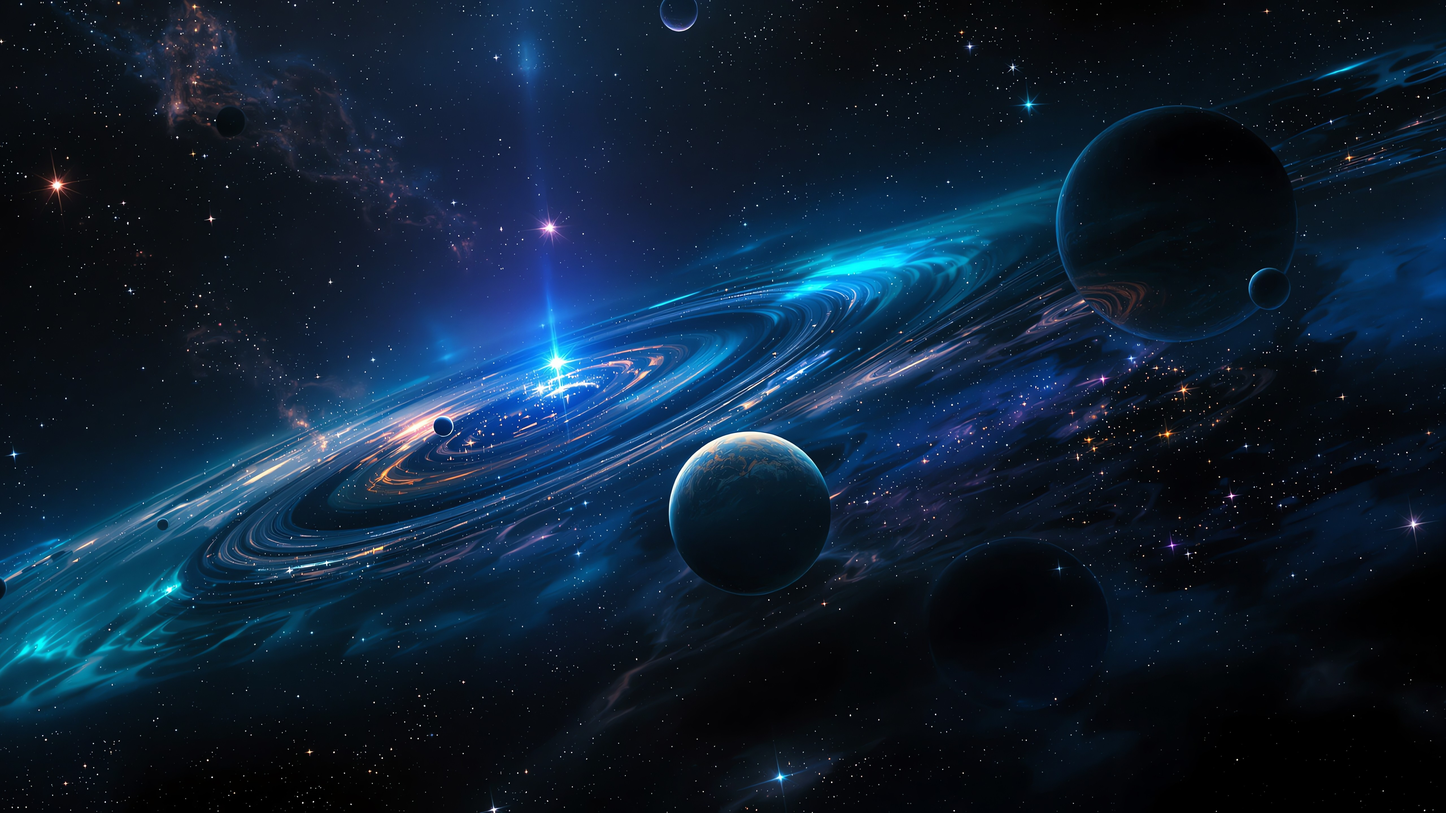
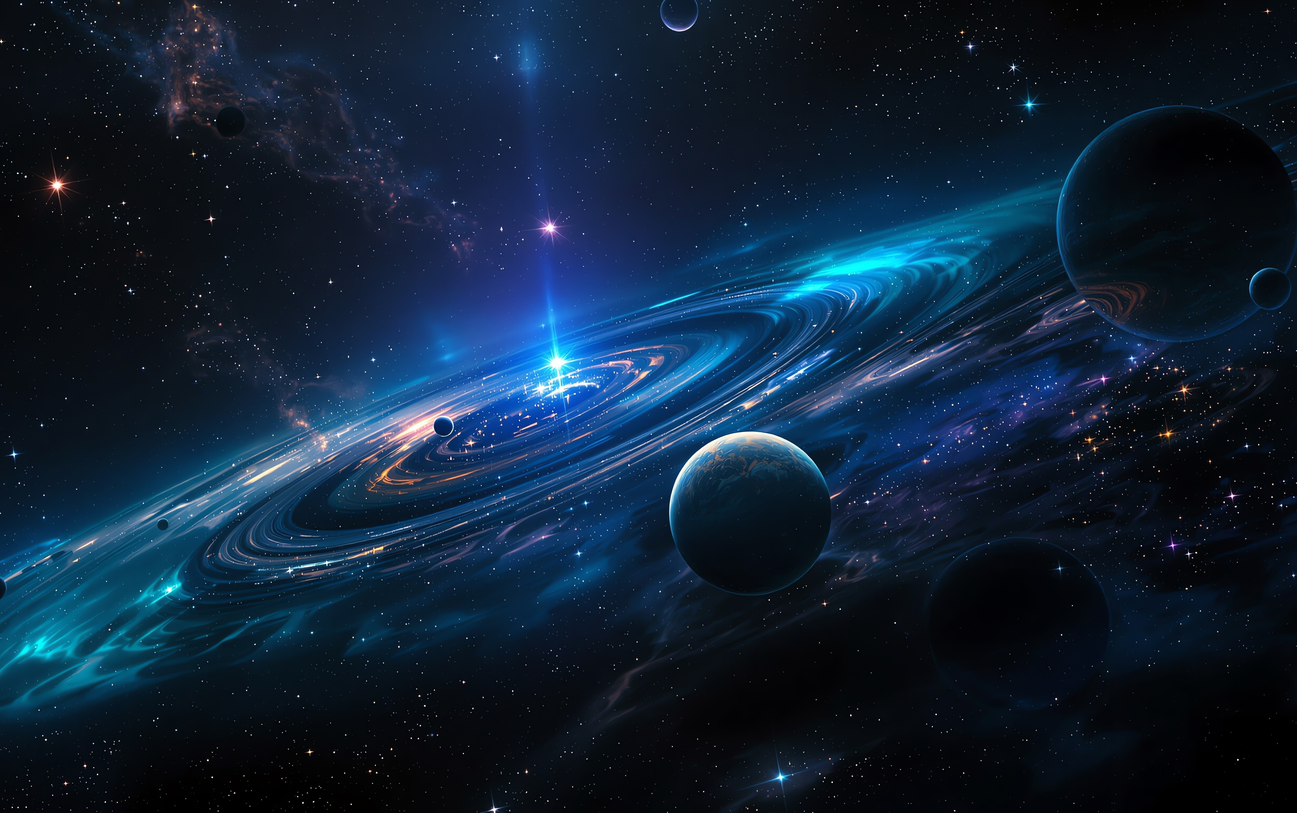
Revamp app menu, wallpaper, and window management
Improves the app menu layout and styling for better usability, updates the wallpaper rendering logic to use more appropriate object-fit modes, and refactors window management to use AnyView for content. Adds a simple constructor for FileExplorer for testing, updates the battery tray icon, and adjusts app window creation for file manager and settings. Also updates default wallpaper assets.

diff --git a/crates/prisma_ui/src/components/app_menu.rs b/crates/prisma_ui/src/components/app_menu.rs
@@ -327,13 +327,13 @@ impl AppMenu {
         ];
 
         v_flex()
-            .w(px(180.0))
+            .w(px(200.0))
             .h_full()
             .bg(cx.theme().sidebar.opacity(0.8))
             .border_r_1()
             .border_color(cx.theme().border.opacity(0.5))
-            .p_3()
-            .gap_2()
+            .p_4()
+            .gap_3()
             .scrollable(gpui::Axis::Vertical)
             .children(categories.iter().cloned().enumerate().map(|(idx, category)| {
                 let is_active = category == self.active_category;
@@ -398,75 +398,80 @@ impl AppMenu {
             .h_full()
             .flex()
             .flex_col()
-            .p_4()
-            .gap_4()
+            .p_6()
+            .gap_6()
             .child(
                 // Search bar
                 TextInput::new(&self.search_input)
                     .w_full()
-                    .h(px(40.0))
+                    .h(px(42.0))
+                    .px_4()
+                    .rounded_lg()
             )
             .child(
-                // App grid - ensure proper horizontal layout with wrapping
+                // App grid container with proper spacing
                 div()
                     .flex_1()
                     .w_full()
                     .overflow_hidden()
                     .scrollable(gpui::Axis::Vertical)
                     .child(
+                        // Grid layout using CSS Grid approach
                         div()
                             .w_full()
-                            .min_h_full()
                             .flex()
                             .flex_row()
                             .flex_wrap()
-                            .gap_4()
-                            .p_4()
-                            .items_start()
+                            .gap_6()
                             .justify_start()
-                            .content_start()
+                            .items_start()
                             .children(self.filtered_apps.iter().enumerate().map(|(idx, app)| {
-                                Button::new(("app", idx))
-                                    .ghost()
-                                    .p_2()
-                                    .rounded(cx.theme().radius)
-                                    .w(px(90.0)) // Fixed width
-                                    .h(px(90.0)) // Fixed height
-                                    .flex_shrink_0() // Prevent shrinking
-//                                    .flex_grow_0() // Prevent growing
-                                    .on_click({
-                                        let app_id = app.id.clone();
-                                        cx.listener(move |this, _, window, cx| {
-                                            this.launch_app(&app_id, window, cx);
-                                        })
-                                    })
+                                div()
+                                    .w(px(100.0))
+                                    .h(px(120.0))
+                                    .flex()
+                                    .flex_col()
+                                    .items_center()
+                                    .gap_2()
                                     .child(
-                                        v_flex()
-                                            .size_full()
+                                        Button::new(("app", idx))
+                                            .ghost()
+                                            .p_3()
+                                            .rounded_xl()
+                                            .w(px(80.0))
+                                            .h(px(80.0))
+                                            .flex()
                                             .items_center()
                                             .justify_center()
-                                            .gap_1() // Smaller gap for 90px button
+                                            .on_click({
+                                                let app_id = app.id.clone();
+                                                cx.listener(move |this, _, window, cx| {
+                                                    this.launch_app(&app_id, window, cx);
+                                                })
+                                            })
                                             .child(
                                                 div()
-                                                    .size(px(36.0)) // Icon container sized for 90px button
+                                                    .w(px(56.0))
+                                                    .h(px(56.0))
                                                     .flex()
                                                     .items_center()
                                                     .justify_center()
                                                     .bg(cx.theme().primary.opacity(0.1))
                                                     .text_color(cx.theme().primary)
-                                                    .rounded(cx.theme().radius)
-                                                    .shadow_sm()
-                                                    .child(Icon::new(app.icon.clone()).size_5()) // Smaller icon
+                                                    .rounded_xl()
+                                                    .child(Icon::new(app.icon.clone()).size_6())
                                             )
-                                            .child(
-                                                div()
-                                                    .text_xs()
-                                                    .font_medium()
-                                                    .text_center()
-                                                    .text_color(cx.theme().foreground)
-                                                    .line_clamp(2)
-                                                    .child(app.name.clone())
-                                            )
+                                    )
+                                    .child(
+                                        div()
+                                            .w_full()
+                                            .text_xs()
+                                            .font_medium()
+                                            .text_center()
+                                            .text_color(cx.theme().foreground)
+                                            .line_clamp(2)
+                                            .px_1()
+                                            .child(app.name.clone())
                                     )
                             }))
                     )
@@ -603,7 +608,7 @@ impl Render for AppMenu {
             .absolute()
             .bottom(px(56.0)) // Above taskbar
             .left(px(12.0)) // Left aligned
-            .w(px(680.0)) // Slightly wider for better layout
+            .w(px(750.0)) // Wider for better app grid layout
             .h(px(720.0)) // Taller for additional sections
             .bg(cx.theme().background.opacity(0.95))
             .border_1()

diff --git a/crates/prisma_ui/src/components/file_explorer.rs b/crates/prisma_ui/src/components/file_explorer.rs
@@ -202,6 +202,50 @@ pub struct FileExplorer {
 }
 
 impl FileExplorer {
+    pub fn new_simple() -> Self {
+        // Create a very simple version for testing
+        let current_path = PathBuf::from("C:\\Users");
+        Self {
+            current_path: current_path.clone(),
+            history: vec![current_path],
+            history_index: 0,
+            items: vec![
+                FileItem {
+                    name: "Documents".to_string(),
+                    path: PathBuf::from("C:\\Users\\Documents"),
+                    item_type: FileItemType::Directory,
+                    size: None,
+                    modified: Some(std::time::SystemTime::now()),
+                    permissions: Some("rwx".to_string()),
+                    is_hidden: false,
+                },
+                FileItem {
+                    name: "Downloads".to_string(),
+                    path: PathBuf::from("C:\\Users\\Downloads"),
+                    item_type: FileItemType::Directory,
+                    size: None,
+                    modified: Some(std::time::SystemTime::now()),
+                    permissions: Some("rwx".to_string()),
+                    is_hidden: false,
+                },
+            ],
+            selected_items: Vec::new(),
+            view_mode: ViewMode::Icons,
+            search_input: unsafe { std::mem::zeroed() }, // Temporary - won't use this field in simple render
+            show_hidden: false,
+            sidebar_locations: vec![
+                SidebarLocation::Home,
+                SidebarLocation::Documents,
+                SidebarLocation::Downloads,
+            ],
+            active_location: Some(SidebarLocation::Home),
+            clipboard: Vec::new(),
+            clipboard_cut: false,
+            focus_handle: unsafe { std::mem::zeroed() }, // Temporary - won't use this field in simple render
+            loading: false,
+        }
+    }
+
     pub fn new(window: &mut Window, cx: &mut Context<Self>) -> Self {
         let search_input = cx.new(|cx| {
             InputState::new(window, cx)

diff --git a/crates/prisma_ui/src/window_manager.rs b/crates/prisma_ui/src/window_manager.rs
@@ -1,6 +1,6 @@
 /// Core window management system with GPU-backed compositing
 use gpui::{
-    div, px, size, AnyElement, App, AppContext, Bounds, Context,
+    div, px, size, AnyElement, AnyView, App, AppContext, Bounds, Context,
     Entity, EventEmitter, FocusHandle, Focusable, InteractiveElement,
     IntoElement, MouseButton, MouseDownEvent, MouseMoveEvent, ParentElement, Pixels,
     Point, Render, Size, Styled, WeakEntity, Window, ElementId, Animation, AnimationExt
@@ -157,7 +157,7 @@ impl WindowManager {
         let managed_window = cx.new(|cx| ManagedWindow::new(
             id,
             title,
-            content,
+            content.into(),
             bounds,
             weak_self,
             cx,
@@ -678,7 +678,7 @@ impl Render for WindowManager {
 pub struct ManagedWindow {
     pub id: WindowId,
     pub title: String,
-    pub content: Option<AnyElement>,
+    pub content_view: AnyView,
     pub bounds: Bounds<Pixels>,
     pub restored_bounds: Bounds<Pixels>,
     pub minimized: bool,
@@ -692,10 +692,10 @@ pub struct ManagedWindow {
 }
 
 impl ManagedWindow {
-    pub fn new<V: IntoElement>(
+    pub fn new(
         id: WindowId,
         title: String,
-        content: V,
+        content_view: AnyView,
         bounds: Bounds<Pixels>,
         window_manager: WeakEntity<WindowManager>,
         cx: &mut Context<Self>,
@@ -703,7 +703,7 @@ impl ManagedWindow {
         Self {
             id,
             title,
-            content: Some(content.into_any_element()),
+            content_view,
             bounds,
             restored_bounds: bounds,
             minimized: false,
@@ -1025,7 +1025,7 @@ impl Render for ManagedWindow {
                         div()
                             .flex_1()
                             .overflow_hidden()
-                            .child(self.content.take().unwrap_or_else(|| div().into_any_element()))
+                            .child(self.content_view.clone())
                     )
             )
             .child(self.render_resize_handles(window_manager, cx));

diff --git a/crates/prisma_ui/src/components/wallpaper.rs b/crates/prisma_ui/src/components/wallpaper.rs
@@ -36,7 +36,7 @@ impl Wallpaper {
     pub fn new(bounds: Bounds<Pixels>) -> Self {
         Self {
             image_path: None,
-            mode: WallpaperMode::Fill,
+            mode: WallpaperMode::Fit,
             fallback_color: gpui::Rgba { r: 0.176, g: 0.216, b: 0.282, a: 1.0 }, // Nice dark blue-gray
             bounds,
         }
@@ -103,10 +103,10 @@ impl Wallpaper {
             .bg(self.fallback_color)  // Add fallback background color
             .child(
                 match self.mode {
-                    WallpaperMode::Fill => image.object_fit(gpui::ObjectFit::Cover),
+                    WallpaperMode::Fill => image.object_fit(gpui::ObjectFit::Fill),
                     WallpaperMode::Stretch => image,
                     WallpaperMode::Fit => image.object_fit(gpui::ObjectFit::Contain),
-                    WallpaperMode::Center => image,
+                    WallpaperMode::Center => image.object_fit(gpui::ObjectFit::ScaleDown),
                     WallpaperMode::Tile => image,
                 }
             )

diff --git a/crates/prisma_ui/src/desktop.rs b/crates/prisma_ui/src/desktop.rs
@@ -285,7 +285,7 @@ impl Desktop {
                     );
                 }
                 "file_manager" => {
-                    let content = FileExplorer::create(window, cx);
+                    let content = cx.new(|cx| FileExplorer::new(window, cx));
                     self.create_app_window(
                         "File Explorer".to_string(),
                         content,
@@ -324,7 +324,7 @@ impl Desktop {
                     );
                 }
                 "settings" => {
-                    let content = Settings::create(window, cx);
+                    let content = cx.new(|cx| Settings::new(window, cx));
                     self.create_app_window(
                         "System Settings".to_string(),
                         content,

diff --git a/crates/prisma_ui/src/components/taskbar.rs b/crates/prisma_ui/src/components/taskbar.rs
@@ -91,7 +91,7 @@ impl Taskbar {
 
         tray_icons.insert("battery".to_string(), TrayIcon {
             id: "battery".to_string(),
-            icon: TrayIconType::Image("icons/battery/75-percent-512.png".to_string()),
+            icon: TrayIconType::Image("icons/battery/almost-empty-512.png".to_string()),
             tooltip: "Battery: 85%".to_string(),
             badge_count: None,
         });
